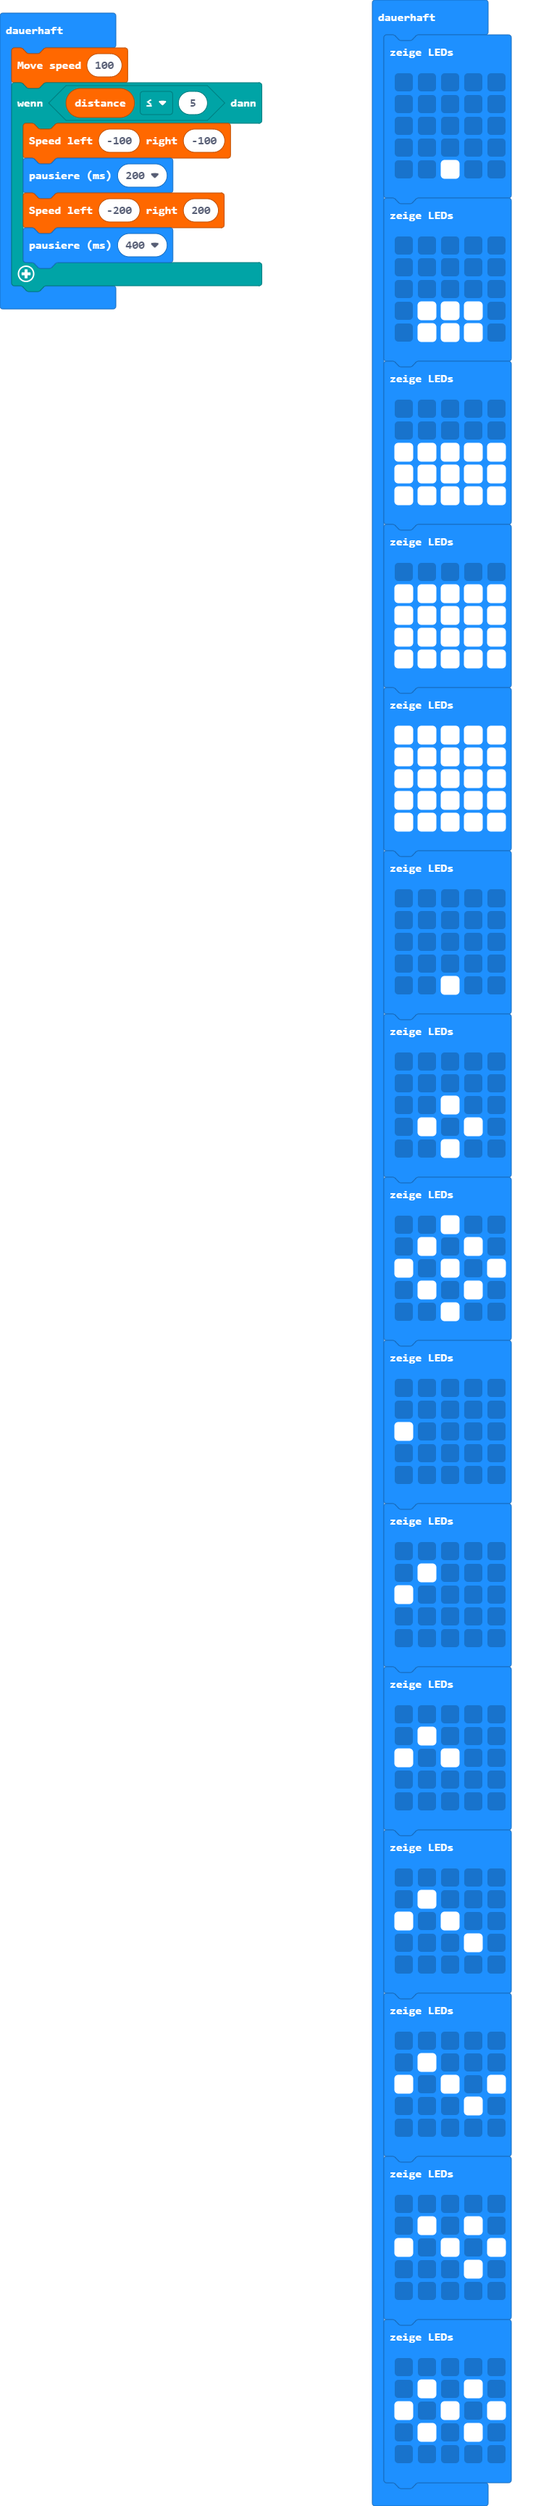
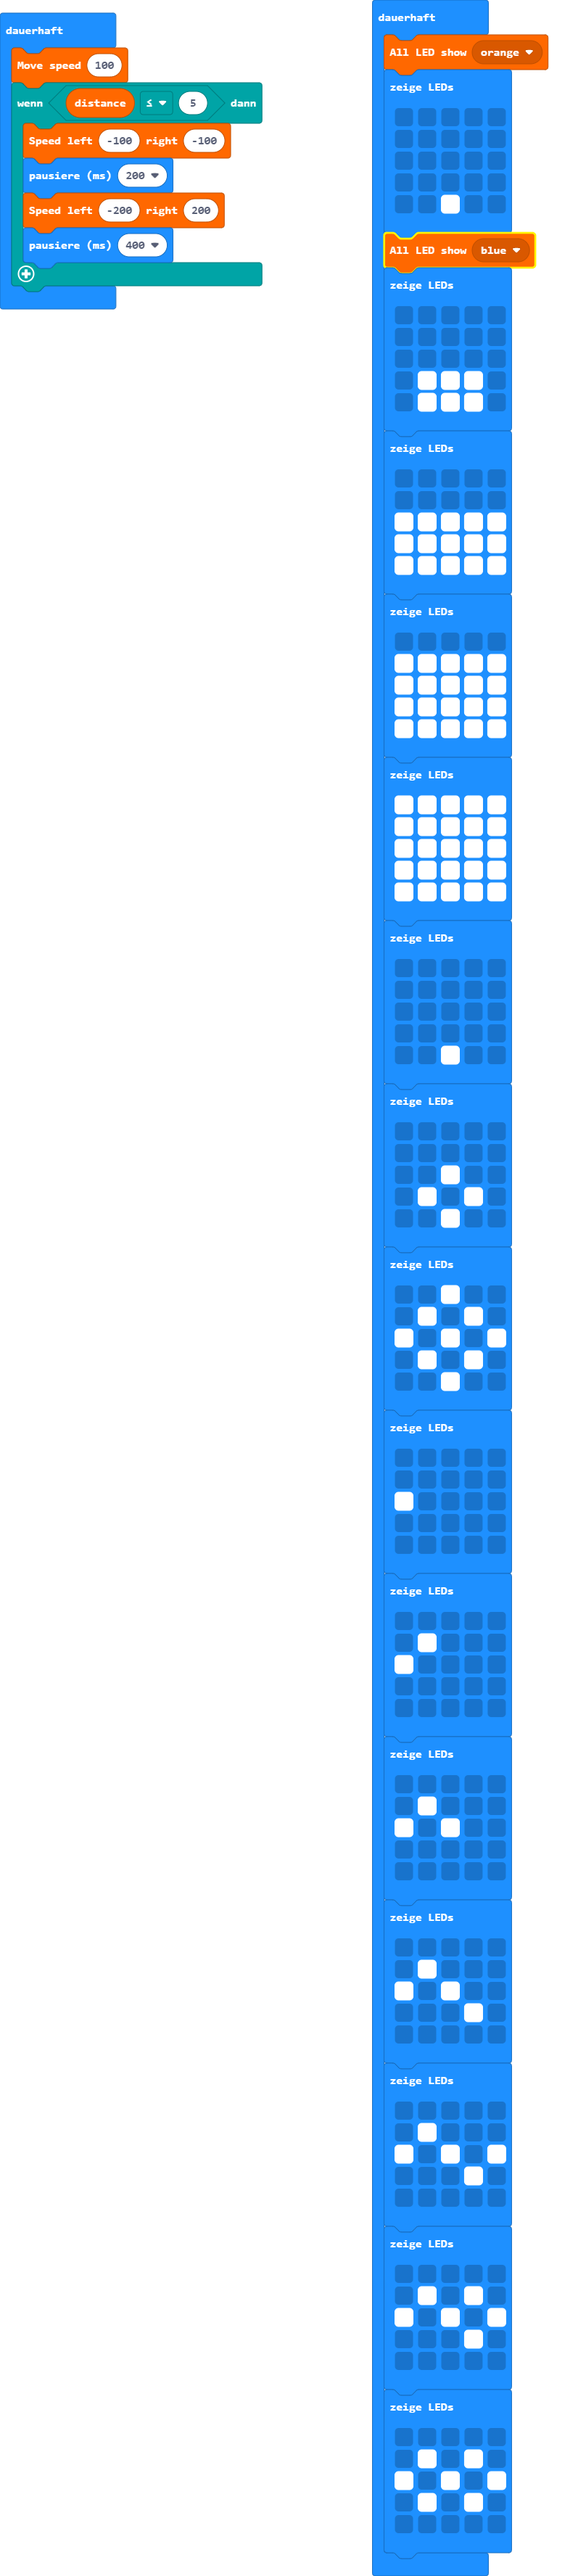
Lights

Changed region(s): [[0.6372, 0.0, 0.9406, 1.0], [0.0, 0.0, 0.4855, 0.1239]]

diff --git a/main.ts b/main.ts
@@ -8,6 +8,7 @@ basic.forever(function () {
     }
 })
 basic.forever(function () {
+    Rover.setALLRGB(Rover.colors(RoverColors.Orange))
     basic.showLeds(`
         . . . . .
         . . . . .
@@ -15,6 +16,7 @@ basic.forever(function () {
         . . . . .
         . . # . .
         `)
+    Rover.setALLRGB(Rover.colors(RoverColors.Blue))
     basic.showLeds(`
         . . . . .
         . . . . .
